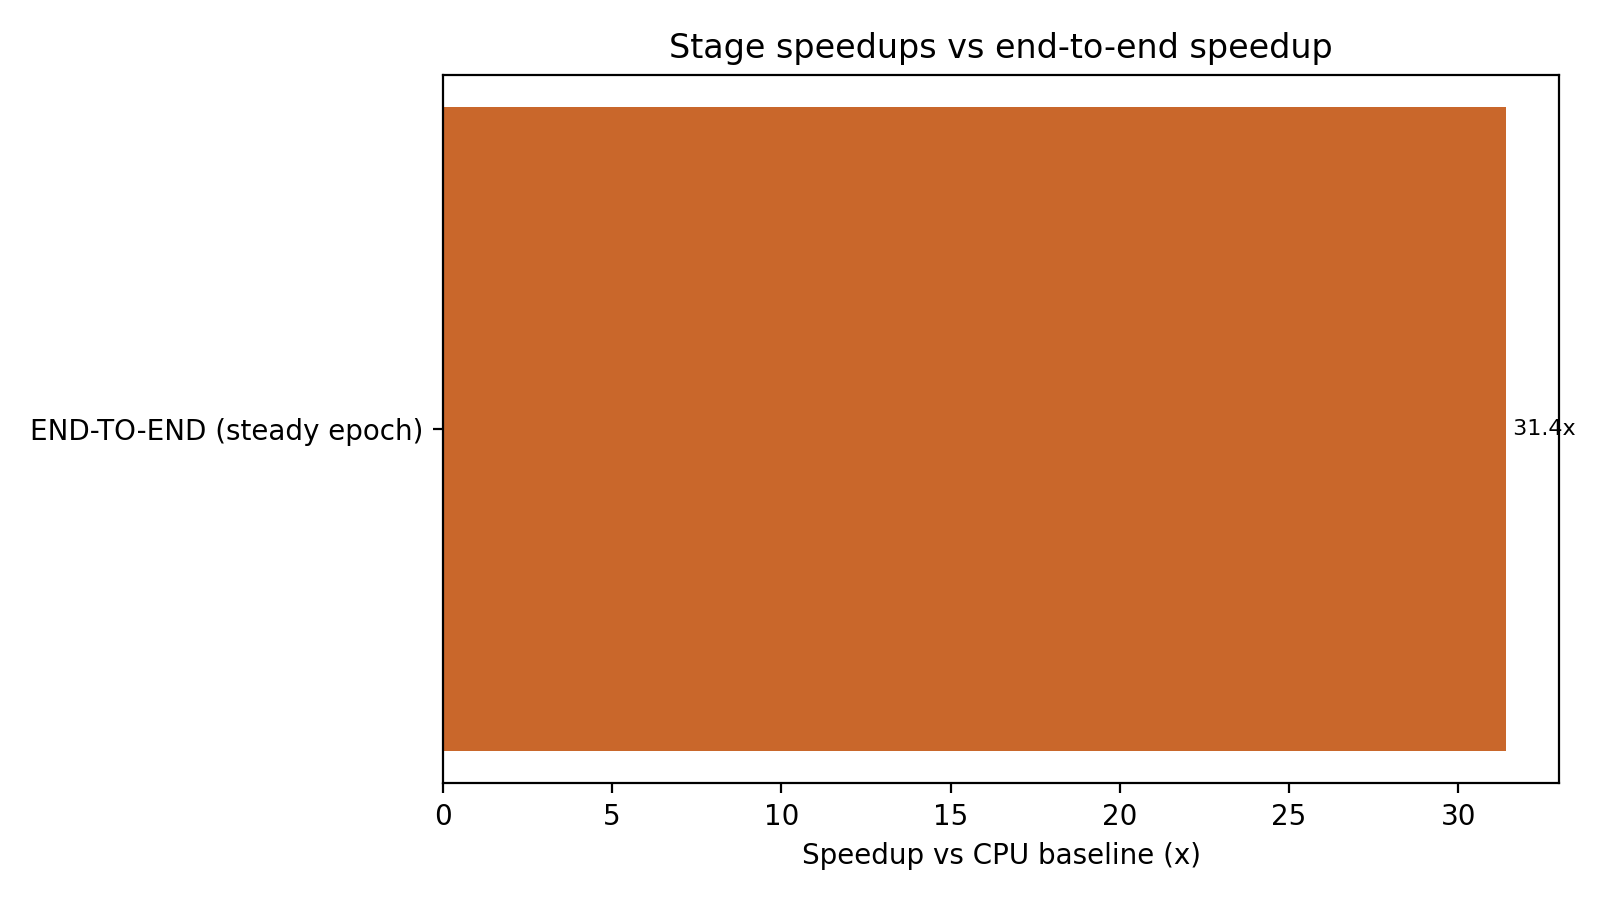
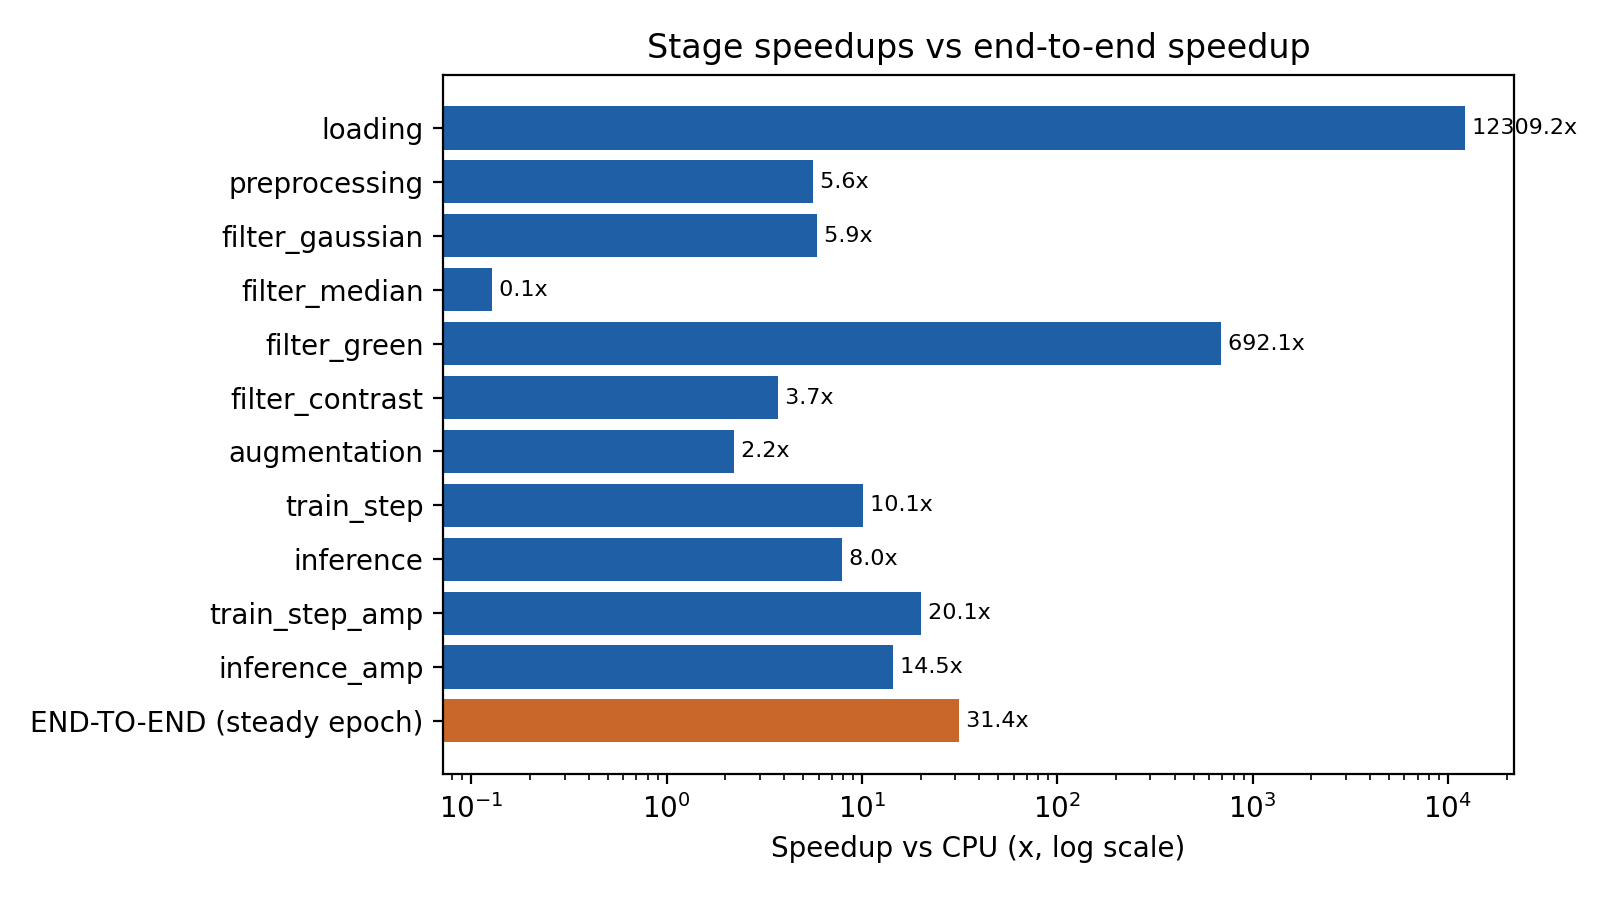
A8: figures, tables and make_figures.py from the official 3050 results

diff --git a/scripts/make_figures.py b/scripts/make_figures.py
@@ -10,6 +10,8 @@ FIG = os.path.join(R, "figures")
 os.makedirs(FIG, exist_ok=True)
 BASE = os.environ.get("BASELINE_RUN", "baseline")
 OPT = os.environ.get("OPT_RUN", "optimized")
+FINAL = os.environ.get("FINAL_RUN", OPT)
+FINAL = os.environ.get("FINAL_RUN", OPT)
 missing, produced = [], []
 
 
@@ -55,7 +57,7 @@ def ablation_names():
 
 
 def run_names():
-    others = sorted(os.path.basename(p) for p in glob.glob(f"{R}/exp_*") if os.path.isdir(p))
+    others = sorted(os.path.basename(p) for p in glob.glob(f"{R}/exp_*") + glob.glob(f"{R}/final_*") if os.path.isdir(p))
     return [BASE, OPT] + [n for n in others if n not in (BASE, OPT)]
 
 
@@ -93,14 +95,15 @@ def fig2_stage_speedup():
         return
     t = pd.read_csv(p)
     names, vals, cols = [], [], []
-    if "speedup_vs_cpu" in t:
-        g = t[(t["device"] != "cpu") & t["speedup_vs_cpu"].notna()]
+    sp = next((c for c in t.columns if c.startswith("speedup")), None)
+    if sp:
+        g = t[(t["device"] != "cpu") & t[sp].notna()]
         for _, r in g.iterrows():
             names.append(r["stage"])
-            vals.append(float(r["speedup_vs_cpu"]))
+            vals.append(float(r[sp]))
             cols.append("#1f5fa6")
     else:
-        missing.append(f"{p}: no speedup_vs_cpu column (A5.6-5.7)")
+        missing.append(f"{p}: no speedup column (A5.6-5.7)")
     e2e = end_to_end_speedup()
     if e2e:
         names.append("END-TO-END (steady epoch)")
@@ -112,7 +115,8 @@ def fig2_stage_speedup():
     ax.barh(names[::-1], vals[::-1], color=cols[::-1])
     for y, v in enumerate(vals[::-1]):
         ax.text(v, y, f" {v:.1f}x", va="center", fontsize=8)
-    ax.set_xlabel("Speedup vs CPU baseline (x)")
+    ax.set_xlabel("Speedup vs CPU (x, log scale)")
+    ax.set_xscale("log")
     ax.set_title("Stage speedups vs end-to-end speedup")
     save(fig, "fig2_stage_speedup")
 
@@ -223,7 +227,7 @@ def tables():
     parts = ["# Tables (auto-generated from results/)"]
     p = f"{R}/timing.csv"
     if os.path.exists(p):
-        cols = ["stage", "device", "mean_s", "std_s", "imgs_per_s", "speedup_vs_cpu"]
+        cols = ["stage", "device", "mean_s", "std_s", "imgs_per_s", "speedup", "speedup_vs_cpu"]
         t = pd.read_csv(p)
         parts.append("## Table 2 - Per-stage timings, CPU vs GPU\n\n" + md(t[[c for c in cols if c in t]]))
     else:
@@ -246,16 +250,25 @@ def tables():
                      "speedup vs baseline": (epoch_s(hb) / epoch_s(h)) if epoch_s(hb) else None,
                      "gpu mem (MB)": round(mem, 1) if mem else None,
                      "val macro-F1": best_val_f1(h)})
+    fin = [r for r in rows if r["run"].startswith("final_r")]
+    if len(fin) > 1:
+        v = np.array([r["steady epoch (s)"] for r in fin])
+        rows.append({"run": f"final (mean of {len(fin)} repeats)", "device": fin[0]["device"],
+                     "precision": fin[0]["precision"], "preprocessing": fin[0]["preprocessing"],
+                     "steady epoch (s)": f"{v.mean():.3f} +/- {v.std(ddof=1):.3f}",
+                     "speedup vs baseline": float(epoch_s(hb) / v.mean()) if epoch_s(hb) else None,
+                     "gpu mem (MB)": None,
+                     "val macro-F1": float(np.mean([r["val macro-F1"] for r in fin]))})
     if rows:
         parts.append("## Table 3 - End-to-end per configuration\n\n" + md(pd.DataFrame(rows)))
     q, cms = [], {}
-    for n in (BASE, OPT):
+    for n in (BASE, FINAL):
         m = jload(f"{R}/{n}/metrics.json")
         if not m:
             continue
         row = {"run": n}
         for k, v in m.items():
-            if isinstance(v, (int, float)):
+            if k in ("n_test", "accuracy", "macro_precision", "macro_recall", "macro_f1", "inference_imgs_per_s"):
                 row[k] = float(v)
             elif "confusion" in k.lower():
                 cms[n] = v

diff --git a/results/tables.md b/results/tables.md
@@ -2,17 +2,29 @@
 
 ## Table 2 - Per-stage timings, CPU vs GPU
 
-| stage | device | mean_s | std_s | imgs_per_s |
-|---|---|---|---|---|
-| loading | cpu | 2.072 | 0.014 | 30.884 |
-| preprocessing | cpu | 0.134 | 0.003 | 478.386 |
-| filter_gaussian | cpu | 0.018 | 0.001 | 3595.586 |
-| filter_median | cpu | 0.041 | 0.001 | 1552.391 |
-| filter_green | cpu | 0.007 | 0.000 | 9820.259 |
-| filter_contrast | cpu | 0.113 | 0.004 | 564.365 |
-| augmentation | cpu | 0.020 | 0.001 | 3135.724 |
-| train_step | cpu | 1.621 | 0.067 | 39.491 |
-| inference | cpu | 0.396 | 0.010 | 161.505 |
+| stage | device | mean_s | std_s | imgs_per_s | speedup |
+|---|---|---|---|---|---|
+| loading | cpu | 2.047 | 0.146 | 31.271 |  |
+| preprocessing | cpu | 0.135 | 0.003 | 473.231 |  |
+| filter_gaussian | cpu | 0.017 | 0.000 | 3661.780 |  |
+| filter_median | cpu | 0.041 | 0.000 | 1578.939 |  |
+| filter_green | cpu | 0.006 | 0.000 | 10008.100 |  |
+| filter_contrast | cpu | 0.111 | 0.003 | 574.234 |  |
+| augmentation | cpu | 0.020 | 0.001 | 3246.971 |  |
+| train_step | cpu | 1.438 | 0.089 | 44.498 |  |
+| inference | cpu | 0.398 | 0.012 | 161.003 |  |
+| loading | cuda | 0.000 | 0.000 | 384923.806 | 12309.245 |
+| h2d_transfer | cuda | 0.001 | 0.000 | 51271.370 |  |
+| preprocessing | cuda | 0.024 | 0.000 | 2645.376 | 5.590 |
+| filter_gaussian | cuda | 0.003 | 0.000 | 21543.454 | 5.883 |
+| filter_median | cuda | 0.319 | 0.004 | 200.603 | 0.127 |
+| filter_green | cuda | 0.000 | 0.000 | 6926402.182 | 692.080 |
+| filter_contrast | cuda | 0.030 | 0.000 | 2142.571 | 3.731 |
+| augmentation | cuda | 0.009 | 0.000 | 7159.782 | 2.205 |
+| train_step | cuda | 0.142 | 0.000 | 451.625 | 10.149 |
+| inference | cuda | 0.050 | 0.000 | 1280.333 | 7.952 |
+| train_step_amp | cuda | 0.072 | 0.001 | 894.562 | 20.103 |
+| inference_amp | cuda | 0.027 | 0.000 | 2335.008 | 14.503 |
 
 ## Table 3 - End-to-end per configuration
 
@@ -20,25 +32,17 @@
 |---|---|---|---|---|---|---|---|
 | baseline | cpu | fp32 | cpu | 112.266 | 1.000 |  | 0.336 |
 | optimized | cuda | fp16 (amp) | gpu | 3.574 | 31.413 | 476.000 | 0.305 |
-| exp_amp_off | cuda | fp32 | gpu | 5.964 | 18.825 | 720.700 | 0.332 |
-| exp_augment | cuda | fp32 | cpu | 64.860 | 1.731 | 711.600 | 0.319 |
-| exp_baseline_seed43 | cuda | fp32 | cpu | 55.331 | 2.029 | 711.600 | 0.314 |
-| exp_cache_off | cuda | fp16 (amp) | gpu | 74.200 | 1.513 | 476.000 | 0.305 |
-| exp_channelslast_off | cuda | fp16 (amp) | gpu | 4.110 | 27.314 | 475.800 | 0.301 |
-| exp_cosine | cuda | fp32 | cpu | 60.479 | 1.856 | 711.600 | 0.329 |
-| exp_gpupre_off | cuda | fp16 (amp) | cpu | 5.841 | 19.221 | 504.000 | 0.312 |
-| exp_no_clahe | cuda | fp32 | cpu | 56.402 | 1.990 | 711.600 | 0.333 |
-| exp_prefetchgpu_off | cuda | fp16 (amp) | gpu | 3.555 | 31.578 | 466.800 | 0.305 |
-| exp_res160 | cuda | fp32 | cpu | 61.468 | 1.826 | 381.000 | 0.320 |
-| exp_resnet18 | cuda | fp32 | cpu | 56.535 | 1.986 | 885.300 | 0.519 |
-| exp_resnet18_lr1e-4 | cuda | fp32 | cpu | 55.597 | 2.019 | 885.300 | 0.510 |
-| exp_resnet18_lr1e-4_augment | cuda | fp32 | cpu | 57.151 | 1.964 | 885.300 | 0.536 |
+| final_r1 | cuda | fp16 (amp) | gpu | 6.170 | 18.194 | 616.400 | 0.541 |
+| final_r2 | cuda | fp16 (amp) | gpu | 6.206 | 18.090 | 616.400 | 0.534 |
+| final_r3 | cuda | fp16 (amp) | gpu | 6.167 | 18.204 | 616.400 | 0.549 |
+| final (mean of 3 repeats) | cuda | fp16 (amp) | gpu | 6.181 +/- 0.022 | 18.162 |  | 0.541 |
 
 ## Table 4 - Quality on the test set (baseline and final model only)
 
-| run | amp | channels_last | checkpoint_epoch | val_acc | n_test | accuracy | macro_precision | macro_recall | macro_f1 | inference_time_s | inference_imgs_per_s |
-|---|---|---|---|---|---|---|---|---|---|---|---|
-| baseline | 0.000 | 0.000 | 4.000 | 0.386 | 458.000 | 0.332 | 0.275 | 0.346 | 0.288 | 157.863 | 2.901 |
+| run | n_test | accuracy | macro_precision | macro_recall | macro_f1 | inference_imgs_per_s |
+|---|---|---|---|---|---|---|
+| baseline | 458.000 | 0.332 | 0.275 | 0.346 | 0.288 | 2.901 |
+| final_r1 | 458.000 | 0.517 | 0.517 | 0.521 | 0.518 | 34.940 |
 
 ### Confusion matrix: baseline
 
@@ -49,3 +53,13 @@
 | 32 | 11 | 0 | 20 | 26 |
 | 33 | 10 | 0 | 21 | 37 |
 | 6 | 7 | 0 | 14 | 55 |
+
+### Confusion matrix: final_r1
+
+| 0 | 1 | 2 | 3 | 4 |
+|---|---|---|---|---|
+| 38 | 21 | 14 | 5 | 0 |
+| 29 | 54 | 13 | 9 | 3 |
+| 14 | 19 | 28 | 26 | 2 |
+| 5 | 7 | 21 | 53 | 15 |
+| 0 | 0 | 2 | 16 | 64 |
